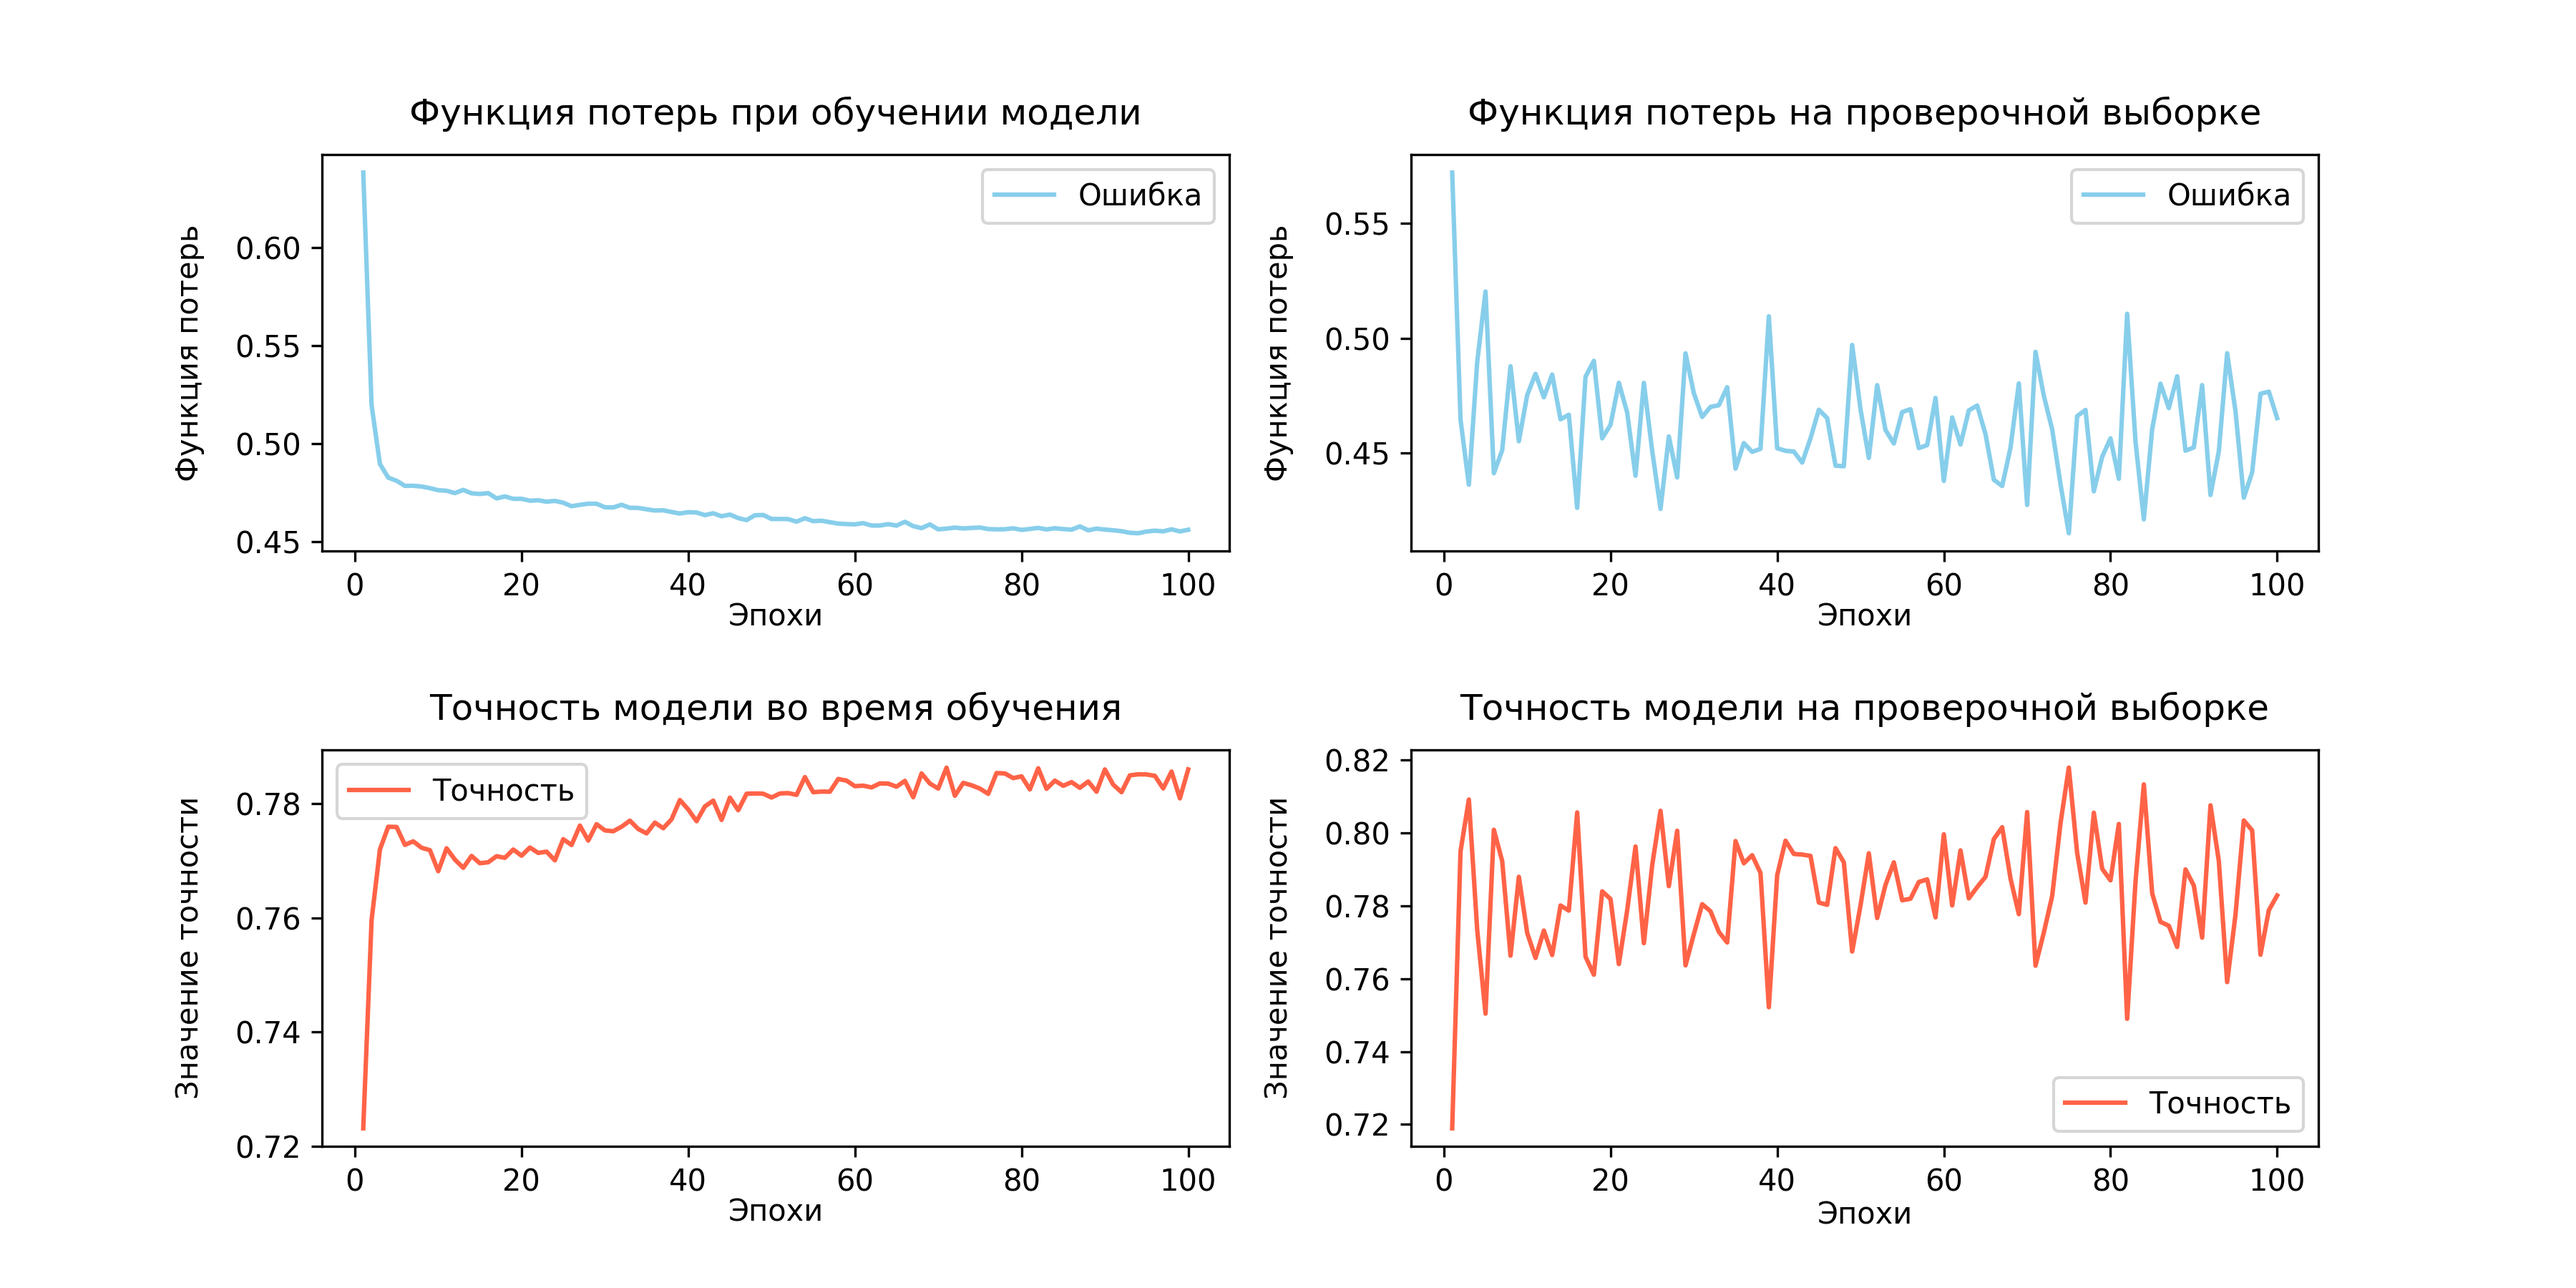
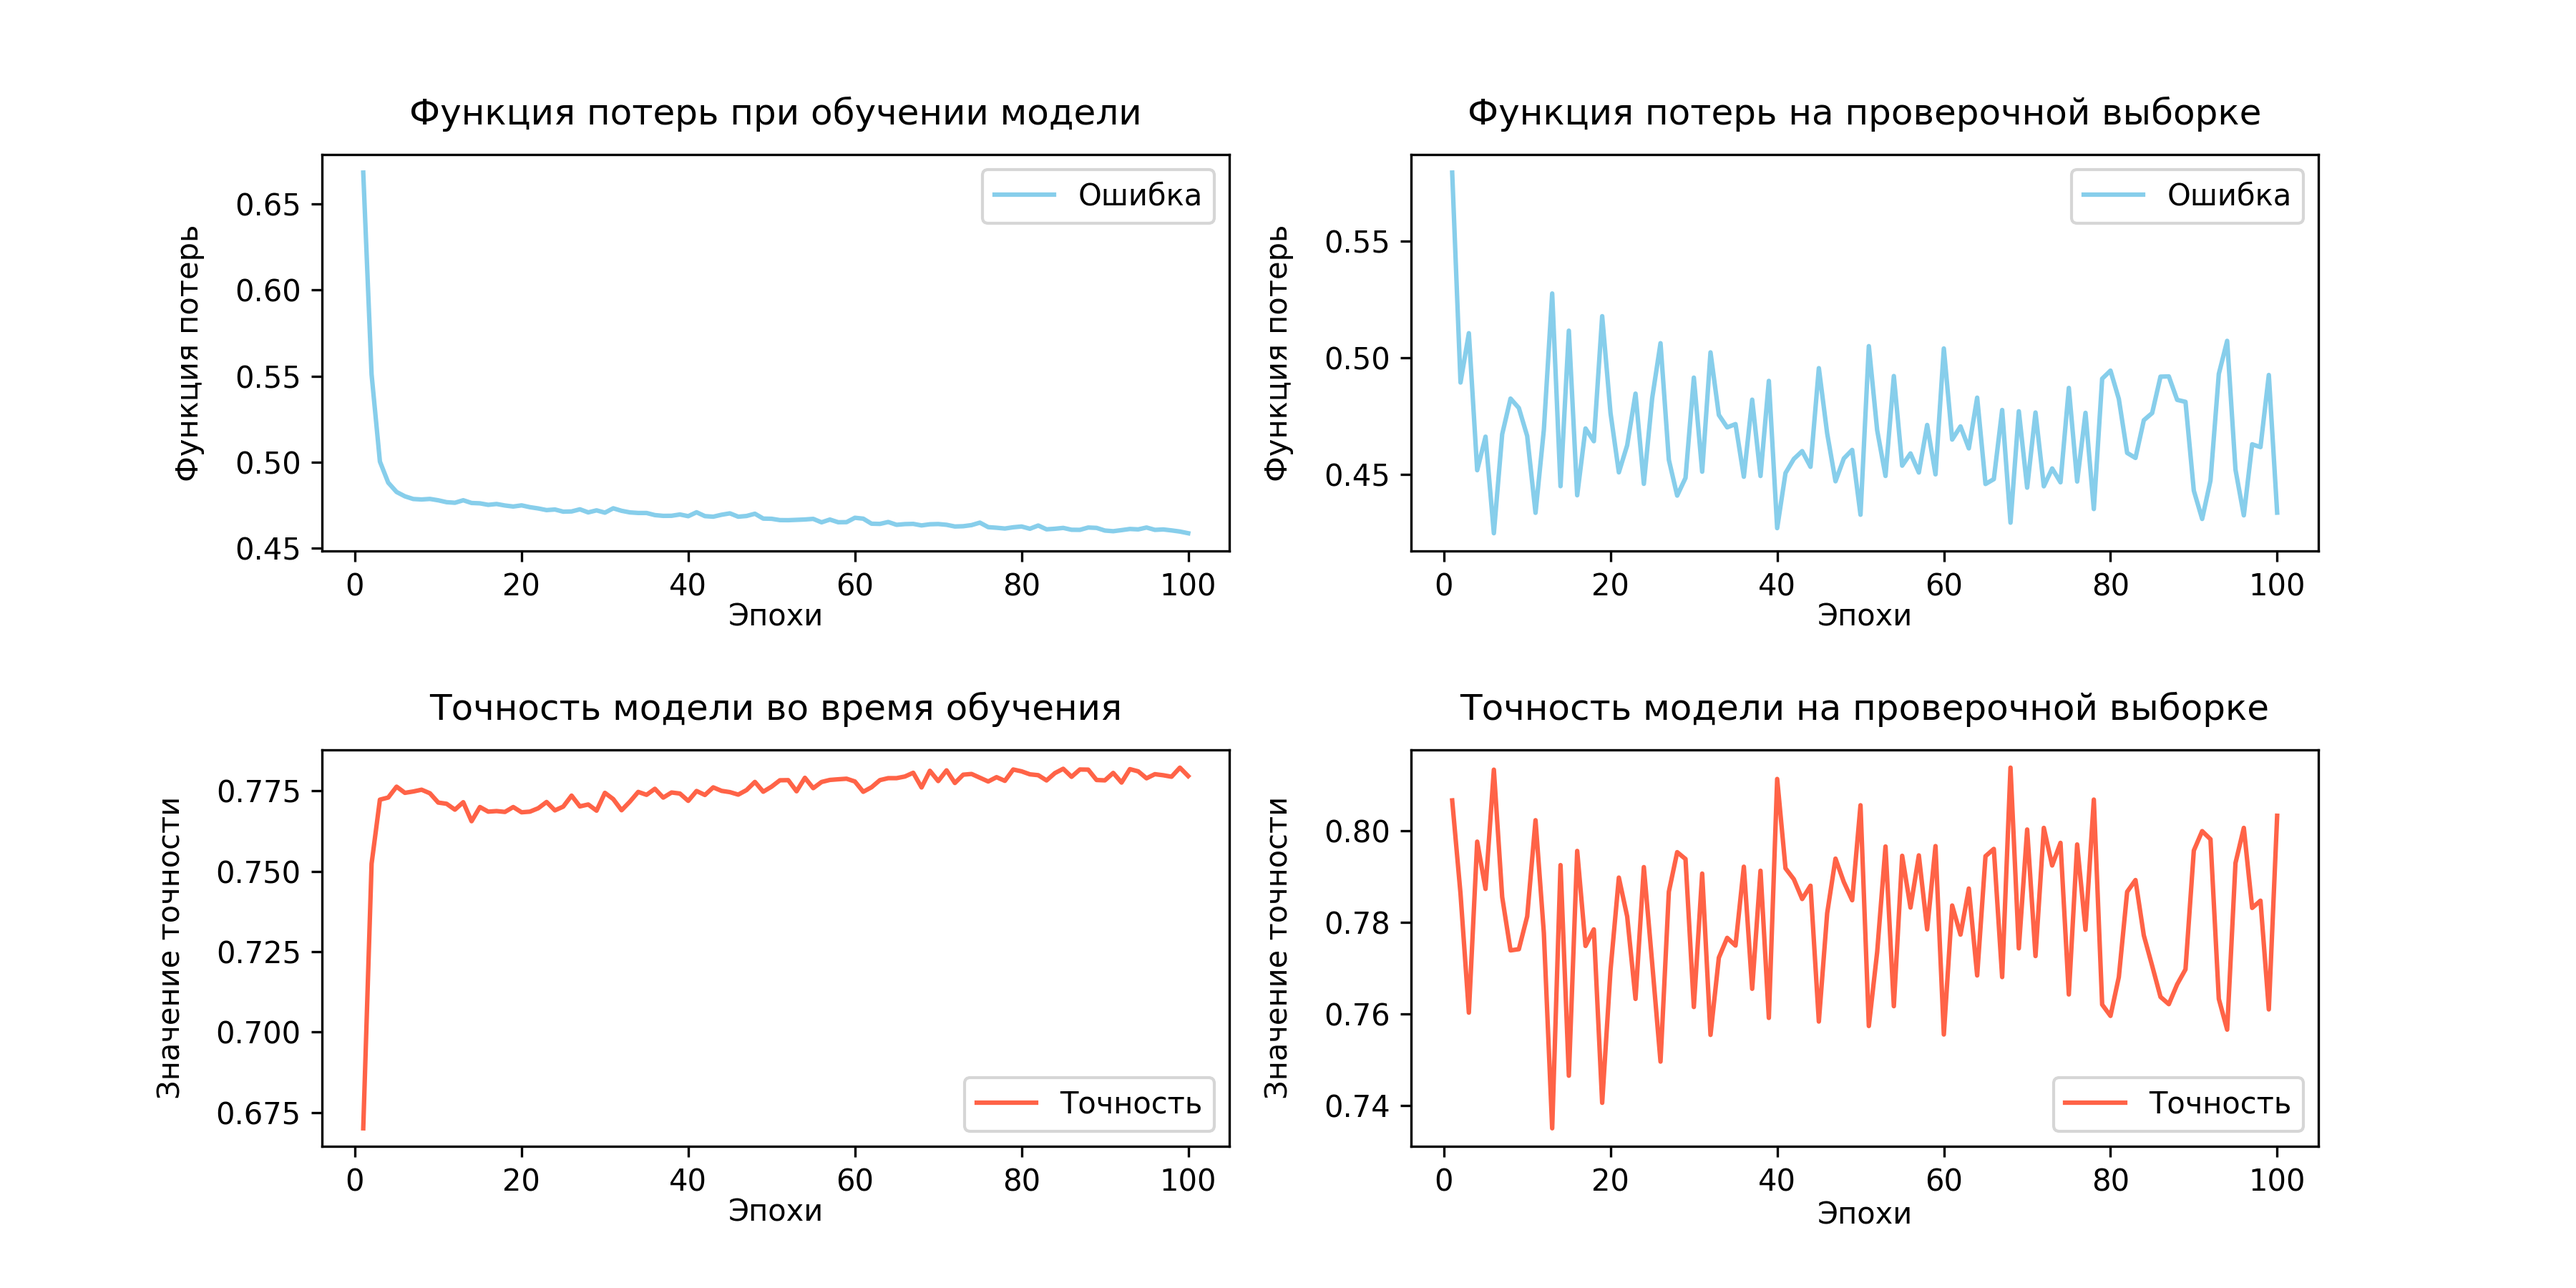
Tuning Deep ensembles.. Stable AUC=0.86, rarely-AUC=0.87

diff --git a/tuning_ensembles.py b/tuning_ensembles.py
@@ -1,0 +1,57 @@
+import pandas as pd
+from keras.utils import set_random_seed
+import json
+import random
+from utils.plots import plot_loss
+from utils.models import create_model, create_ensemble, train_model, evaluate_model
+from utils.processing import preparate_data
+
+# Прочитаем данные:
+df = pd.read_csv("./data/ferritin-v2.csv", sep=",", dtype={"hgb": float})
+print(df.head())
+print(df.shape)
+print(df.dtypes)
+
+targets = ["ferritin"]
+k = [100]
+hidden_units = [10, 20, 30, 40, 50, 60, 70, 80, 90]
+list_statistics = []
+
+for _k in k:
+    for _units in hidden_units:
+        class_weight, x_train, y_train, x_test, y_test = preparate_data(
+            df, targets, seed=None
+        )
+        model = create_ensemble(k=_k, hidden_units=_units)
+        history_data = train_model(
+            model,
+            x_train,
+            y_train,
+            class_weight,
+            isSave=True,
+            filename="ferritin-v2-ensemble",
+        )
+        # Визуализируем кривые обучения:
+        plot_loss(history_data, f"history_100-epochs_ensemble")
+
+        y_train_predict = model.predict(x_train)
+        y_predict = model.predict(x_test)
+        print(f"Shape of y train predict: {y_train_predict.shape}")
+        print(f"Shape of y predict: {y_predict.shape}")
+
+        statistics = evaluate_model(
+            y_train,
+            y_test,
+            y_train_predict,
+            y_predict,
+            "roc_curve-ensemble",
+            False,
+        )
+        s = {}
+        s["k"] = _k
+        s["hidden_units"] = _units
+        s["AUC"] = statistics["auc"]
+        list_statistics.append(s)
+
+with open(f"./output/ensembles/tuning_ensembles_k-100.json", "w") as file:
+    json.dump(list_statistics, file, ensure_ascii=False, indent=4)

diff --git a/launch_ensemble.py b/launch_ensemble.py
@@ -13,8 +13,8 @@ print(df.shape)
 print(df.dtypes)
 
 targets = ["ferritin"]
-k = 10
-hidden_units = 90
+k = 100
+hidden_units = 50
 
 # set_random_seed(seed=42)
 class_weight, x_train, y_train, x_test, y_test = preparate_data(df, targets, seed=42)
